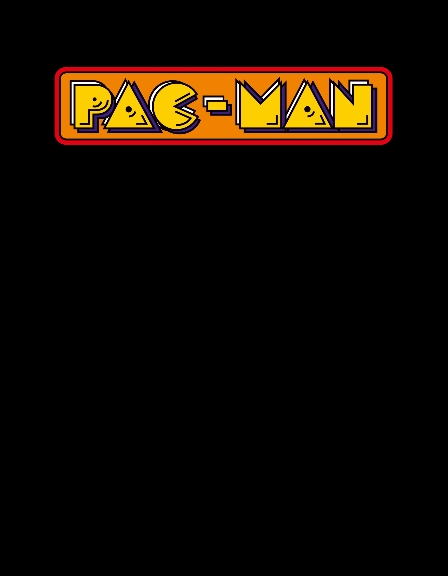
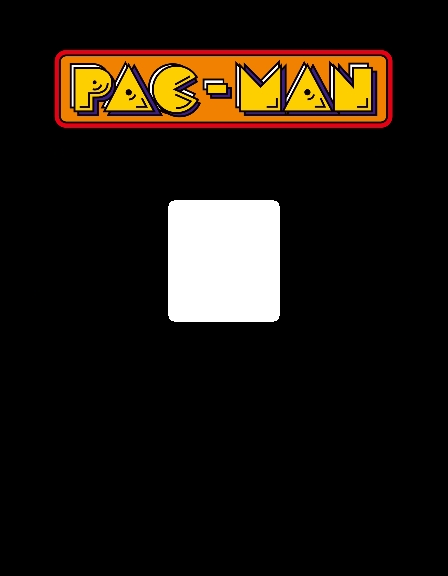
Добавил поддержку кастомных карт в меню, добавлена основная функция main.py

Changed region(s): [[0.0938, 0.0625, 0.9062, 0.2812], [0.375, 0.3438, 0.625, 0.5625]]

diff --git a/start_menu.py b/start_menu.py
@@ -1,23 +1,36 @@
 import pygame
 import sys
+import os
 from button import Button
+from map_class import Map
+from config import HEIGHT, WIDTH
 
 
 class StartMenu:
     def __init__(self, screen):
         self.screen = screen
+        self.maps = []
+        self.map_num = 0
         self.scores = []
         self.buttons = []
+        self.font = pygame.font.SysFont('arial', 40)
+
         # Start button
         self.buttons.append(
-            Button(1, 46, 300, 71, 356, 'images/ui/button_start_static.png', 'images/ui/button_start_pressed.png'))
+            Button(1, 46, 350, 356, 71, 'images/ui/button_start_static.png', 'images/ui/button_start_pressed.png'))
         # Scores button
         self.buttons.append(
-            Button(2, 46, 400, 47, 166, 'images/ui/button_scores_static.png', 'images/ui/button_scores_pressed.png'))
+            Button(2, 46, 450, 166, 47, 'images/ui/button_scores_static.png', 'images/ui/button_scores_pressed.png'))
         # Exit button
         self.buttons.append(
-            Button(3, 236, 400, 47, 166, 'images/ui/button_exit_static.png', 'images/ui/button_exit_pressed.png'))
-        # open('highscores.txt', 'a').close()  # Создает файл, если его нет (пока не надо)
+            Button(3, 236, 450, 166, 47, 'images/ui/button_exit_static.png', 'images/ui/button_exit_pressed.png'))
+        # Left arrow
+        self.buttons.append(
+            Button(4, 100, 230, 31, 51, 'images/ui/arrow_left_static.png', 'images/ui/arrow_left_pressed.png'))
+        # Right arrow
+        self.buttons.append(
+            Button(5, 320, 230, 31, 51, 'images/ui/arrow_right_static.png', 'images/ui/arrow_right_pressed.png'))
+        open('highscores.txt', 'a').close()  # Создает файл, если его нет (пока не надо)
         self.start_menu_image = pygame.image.load("images/ui/main_menu.png")
 
     def process_logic(self):
@@ -26,22 +39,41 @@ class StartMenu:
 
     # Отрисовка не статичных объектов (кнопки)
     def process_drawing(self):
-        self.screen.blit(self.start_menu_image, (0, 0))
-        for button in self.buttons:
+        self.screen.fill((200, 200, 200))
+
+        self.screen.blit(self.maps[self.map_num].preview_img, (168, 200))  # отрисовка превью картинки
+
+        self.screen.blit(self.start_menu_image, (0, 0))  # отрисовка картинки менюшки
+
+        for button in self.buttons:  # отрисовка кнопок
             button.draw(self.screen)
 
+        text = self.font.render(self.maps[self.map_num].name, True, (200, 200, 200))
+        text_rect = text.get_rect(center=(WIDTH / 2, 165))
+        self.screen.blit(text, text_rect)
+
     # Обработка ивентов
-    def check_event(self, event):
-        if event.type == pygame.MOUSEBUTTONDOWN:
-            pressed_button = self.get_pressed_button()
-            if pressed_button == 1 or pressed_button == 2 or pressed_button == 3:
-                if pressed_button == 3:
-                    pygame.quit()
-                    sys.exit()
-                elif pressed_button == 2:
-                    print('high scores menu run')
-                elif pressed_button == 1:
-                    print('start game')
+    def check_event(self):
+        response = None
+        for event in pygame.event.get():
+            if event.type == pygame.MOUSEBUTTONDOWN:
+                pressed_button = self.get_pressed_button()
+                if pressed_button is not None:
+                    if pressed_button == 3:
+                        pygame.quit()
+                        sys.exit()
+                    elif pressed_button == 2:
+                        print('high scores menu run')
+                    elif pressed_button == 1:
+                        response = 1
+                    elif pressed_button == 4:
+                        self.map_num = (self.map_num - 1) % len(self.maps)
+                    elif pressed_button == 5:
+                        self.map_num = (self.map_num + 1) % len(self.maps)
+            elif event.type == pygame.QUIT:
+                pygame.quit()
+                sys.exit()
+        return response
 
     def get_pressed_button(self):
         for button in self.buttons:
@@ -50,7 +82,14 @@ class StartMenu:
                 return button.index
         return None
 
-    # работа с рекордами #
+    ##### Табота с картами #
+
+    def load_maps(self):
+        files = os.listdir('maps')
+        for map_ in files:
+            self.maps.append(Map(map_))
+
+    ##### работа с рекордами #
 
     # Выгрузка рекордов из файла в память
     def load_scores(self):

diff --git a/main.py b/main.py
@@ -1,0 +1,35 @@
+import pygame
+from config import SIZE
+from start_menu import StartMenu
+
+
+def main():
+    pygame.init()
+    pygame.font.init()
+    screen = pygame.display.set_mode(SIZE)
+    pygame.display.set_caption('PAC-MAN')
+
+    menu = StartMenu(screen)
+
+    menu.load_maps()
+
+    while True:
+        main_menu_loop_run = True
+
+        while main_menu_loop_run:  # Сцена меню
+            menu.process_logic()
+            if menu.check_event() == 1:
+                main_menu_loop_run = False
+            menu.process_drawing()
+
+            pygame.display.flip()
+            pygame.time.wait(10)
+
+        game_loop_run = True
+
+        while game_loop_run:  # Сцена игры
+            game_loop_run = False
+
+
+if __name__ == '__main__':
+    main()

diff --git a/button.py b/button.py
@@ -2,7 +2,7 @@ import pygame
 
 
 class Button:
-    def __init__(self, index, x, y, height, width, static_img, on_pressed_img):
+    def __init__(self, index, x, y, width, height, static_img, on_pressed_img):
         self.index = index
         self.x = x
         self.y = y

diff --git a/map_class.py b/map_class.py
@@ -1,0 +1,8 @@
+from pygame import image
+
+
+class Map():
+    def __init__(self, name):
+        self.name = name
+        self.char_map = []
+        self.preview_img = image.load("maps/{}/map_preview.png".format(name))
